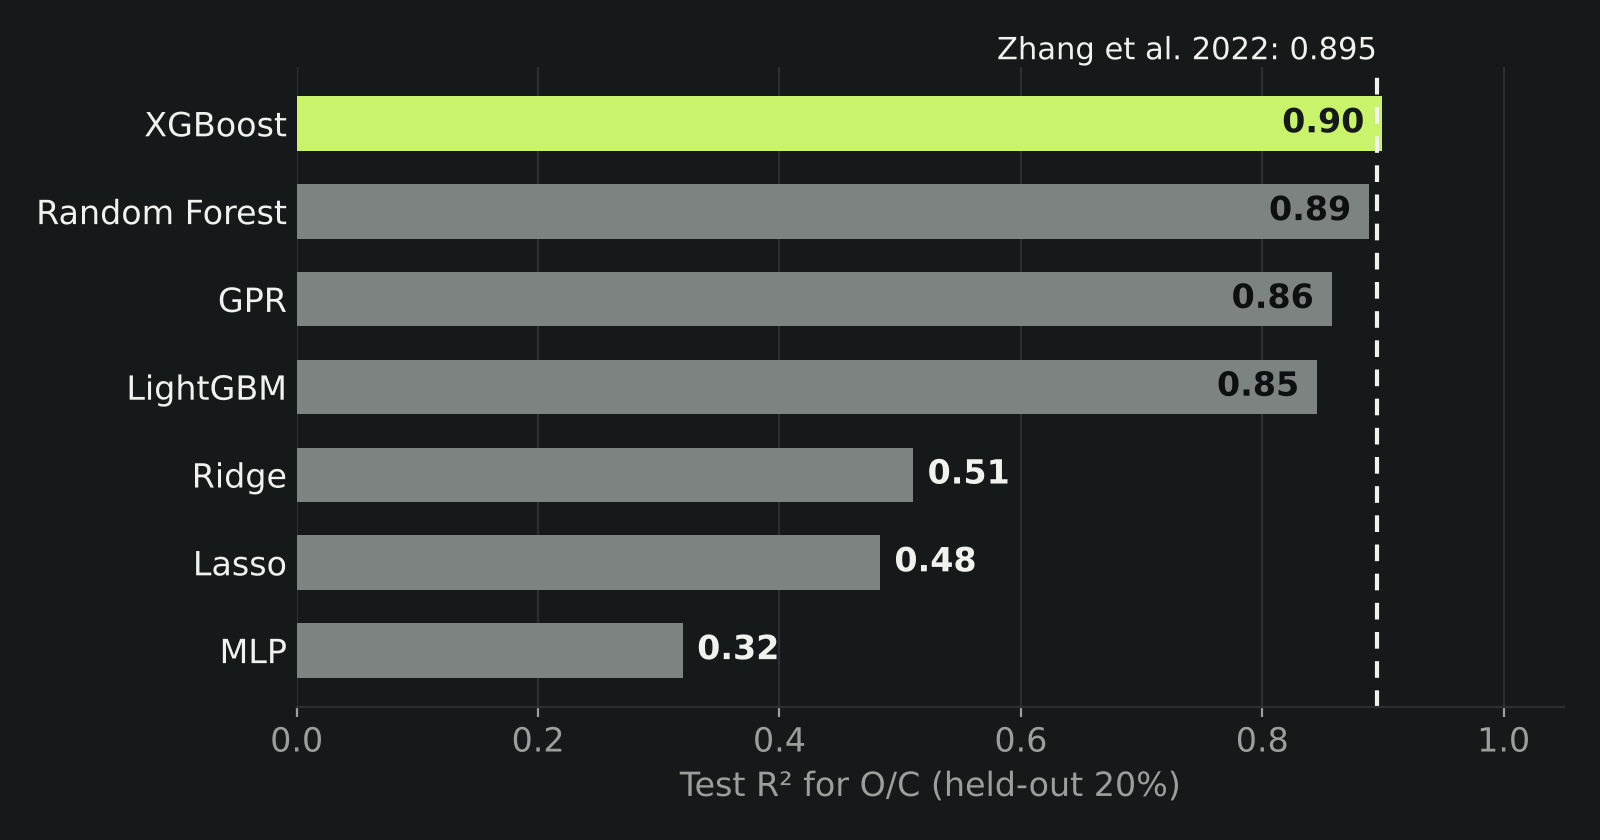
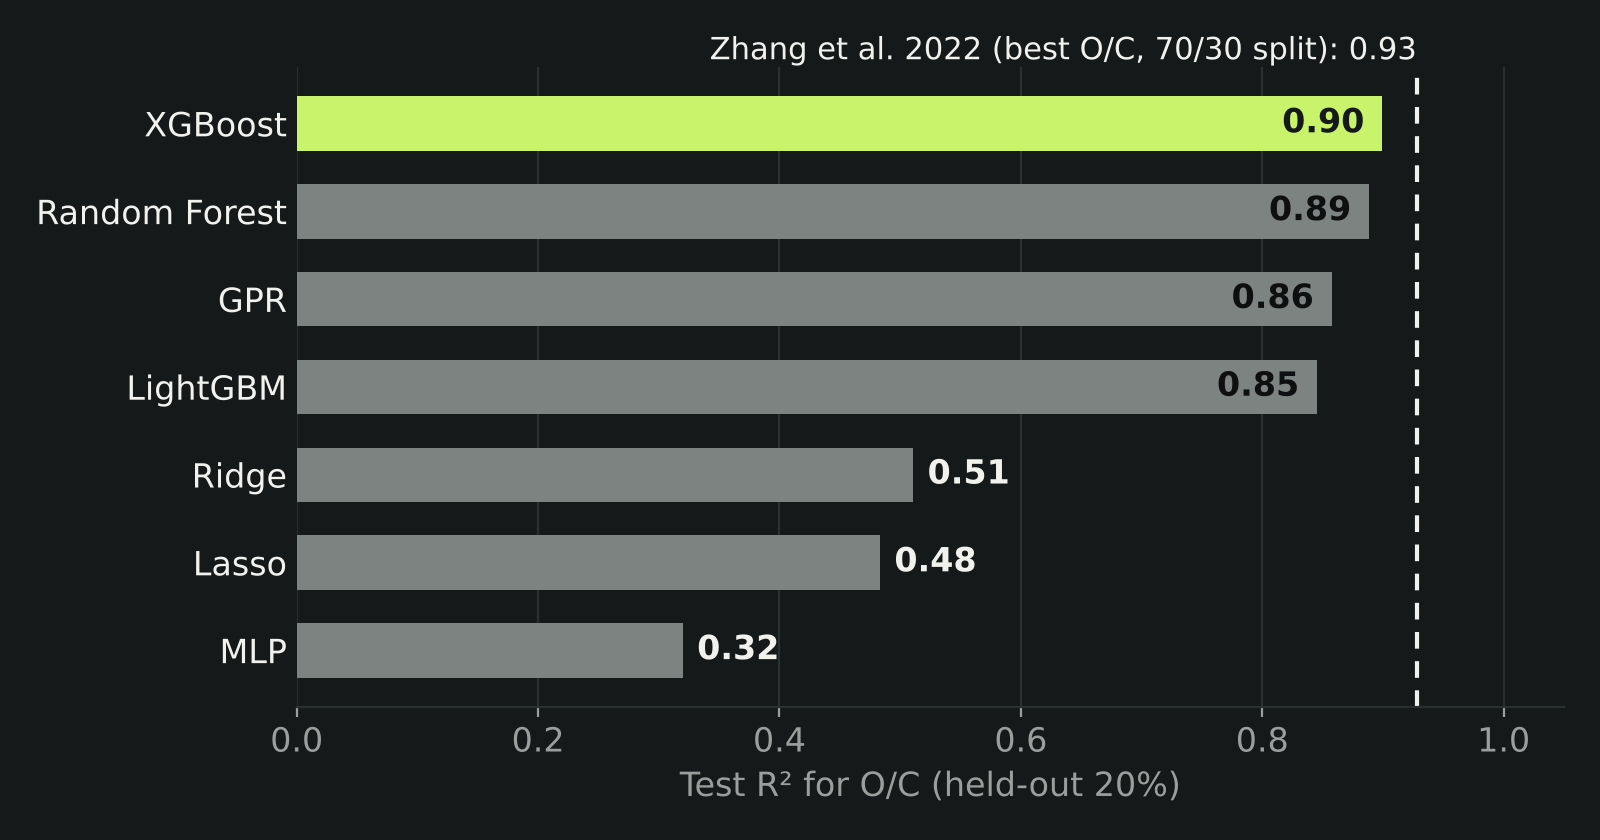
Correct O/C benchmark: Zhang et al. (2022) best O/C R² is 0.93
The 0.895 previously attributed to Zhang et al. (Fuel 312) is from
Yang, Wu & Zhang (2022, Energy 254), for oxygen content. Zhang et al.'s
best O/C Random Forest (ultimate analysis + conditions, 70/30 split)
reports R² = 0.928 (Fig. 4, E2).

Claude-Session: https://claude.ai/code/session_018bJGGE565k5p89XXbVeEsb

Changed region(s): [[0.4375, 0.031, 0.875, 0.0929]]

diff --git a/advisor-frontend/src/data/demoData.ts b/advisor-frontend/src/data/demoData.ts
@@ -140,7 +140,7 @@ export const featureCards = [
     label: "ACCURACY",
     title: "Matches the published benchmark",
     body:
-      "On the standard 80/20 test used in the literature, our O/C model reaches R² 0.90, level with Zhang et al.'s 0.895. A second, stricter test on brand-new biomasses is reported too, so you know when to calibrate.",
+      "On the standard 80/20 test used in the literature, our O/C model reaches R² 0.90, close to the 0.93 reported by Zhang et al. (2022). A second, stricter test on brand-new biomasses is reported too, so you know when to calibrate.",
   },
   {
     index: "02",

diff --git a/pyrolysis_advisor/src/10_figures_C.py b/pyrolysis_advisor/src/10_figures_C.py
@@ -37,8 +37,8 @@ for suffix, (BG, INK, MUTED, GRID, ACC, CTX) in THEMES.items():
         inside = v > 0.7
         ax.text(v - 0.015 if inside else v + 0.012, i, f'{v:.2f}', va='center', ha='right' if inside else 'left', fontsize=12,
                 color=(('#FFFFFF' if suffix else BG) if v == best else '#0E0F10') if inside else INK, fontweight='bold')
-    ax.axvline(0.895, color=INK, lw=1.5, ls=(0, (4, 3)))
-    ax.text(0.895, len(items) - 0.35, 'Zhang et al. 2022: 0.895', ha='right', va='bottom', fontsize=11, color=INK)
+    ax.axvline(0.928, color=INK, lw=1.5, ls=(0, (4, 3)))
+    ax.text(0.928, len(items) - 0.35, 'Zhang et al. 2022 (best O/C, 70/30 split): 0.93', ha='right', va='bottom', fontsize=11, color=INK)
     ax.set_yticks(range(len(items))); ax.set_yticklabels([names.get(m, m) for m, _ in items], color=INK)
     ax.set_xlim(0, 1.05); ax.set_xlabel('Test R² for O/C (held-out 20%)')
     ax.grid(axis='x', color=GRID, lw=0.8); ax.set_axisbelow(True)
